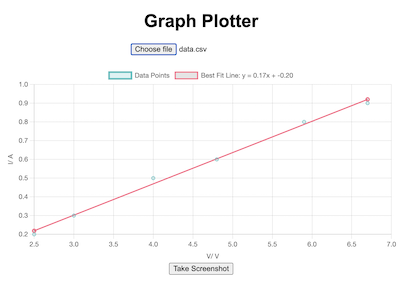
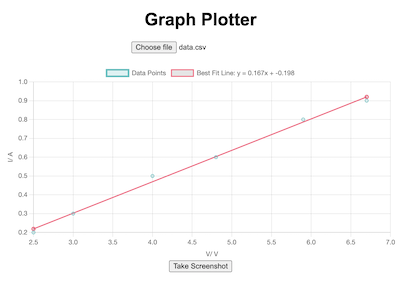
Add files via upload

diff --git a/graph-plotter/index.html b/graph-plotter/index.html
@@ -94,15 +94,15 @@
             const maxY = maxX * m + b;
 
             // Add best-fit straight line to the graph
+            // Add best-fit straight line to the graph
             chart.data.datasets.push({
-                label: `Best Fit Line: y = ${m.toFixed(2)}x + ${b.toFixed(2)}`,
+                label: `Best Fit Line: y = ${m.toFixed(3)}x + ${b.toFixed(3)}`,
                 data: [{ x: minX, y: minY }, { x: maxX, y: maxY }],
                 borderColor: 'rgba(255, 99, 132, 1)',
                 borderWidth: 2,
                 fill: false,
                 type: 'line' // Use line chart for the best-fit line
             });
-
             chart.update();
         }
 
